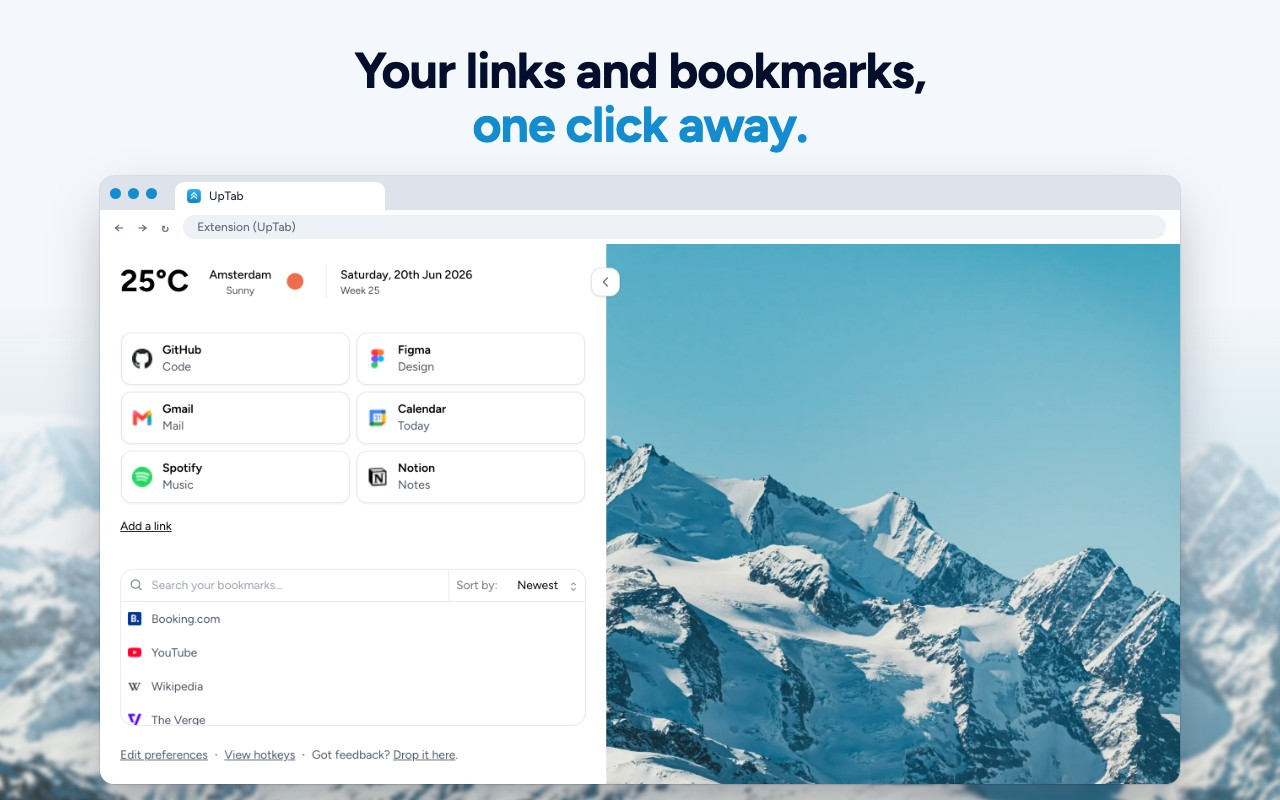
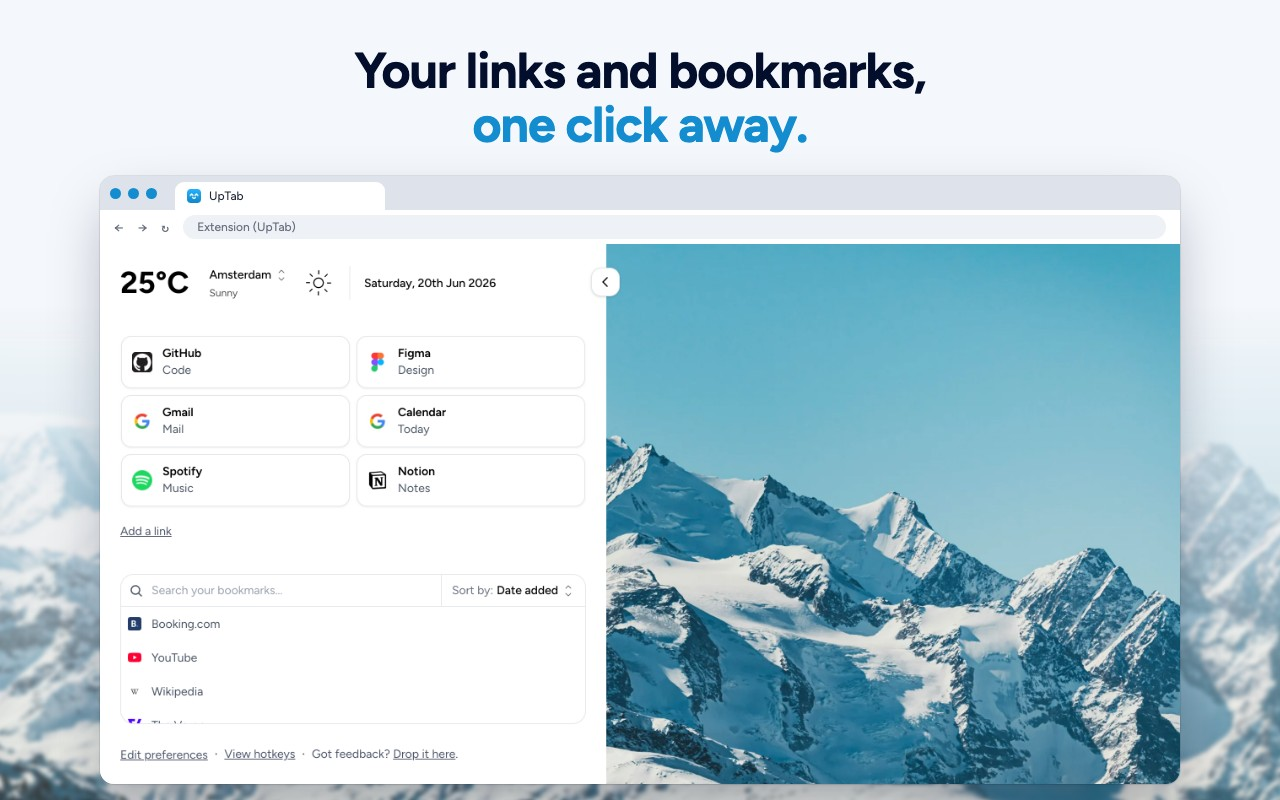
Update store screenshots

diff --git a/dev/screenshots/fixtures.ts b/dev/screenshots/fixtures.ts
@@ -13,6 +13,7 @@ export const NOW = new Date("2026-06-20T16:20:00+02:00");
 export const TODAY = "2026-06-20";
 
 const CURRENT_TEMPERATURE = 25;
+const CURRENT_WIND = 12;
 
 /** Per day: lowest and highest temperature, WMO weather code, rain at its peak. */
 const DAYS = [
@@ -62,6 +63,7 @@ const units = {
   snowfall: "cm",
   weather_code: "wmo code",
   is_day: "",
+  wind_speed_10m: "km/h",
 };
 
 /** An Open-Meteo forecast response (see src/services/weather/types.ts). */
@@ -92,6 +94,7 @@ export const weather = () => {
       snowfall: 0,
       weather_code: DAYS[0].code,
       is_day: 1,
+      wind_speed_10m: CURRENT_WIND,
     },
     hourly_units: units,
     hourly: {
@@ -111,6 +114,7 @@ export const weather = () => {
       is_day: hours.map(({ hour }) =>
         hour >= SUNRISE && hour < SUNSET ? 1 : 0,
       ),
+      wind_speed_10m: hours.map(() => CURRENT_WIND),
     },
   };
 };

diff --git a/dev/screenshots/seed.ts b/dev/screenshots/seed.ts
@@ -147,8 +147,17 @@ export const seedStorage = (
           id: crypto.randomUUID(),
         })),
       });
-      // No "What's new" notice in the sidebar.
+      /*
+       * No notice above the date: not "What's new", the error reports nudge or
+       * the feedback ask (the last two are due right away in a dev build). And
+       * no "Connect your calendar" under it.
+       */
       await chrome.storage.local.remove("newUpdate");
+      await chrome.storage.local.set({
+        errorReportsNudgedAt: Date.now(),
+        feedbackAskedAt: Date.now(),
+        settings: { calendar: { showConnectPrompt: false } },
+      });
 
       // A few milliseconds apart, so sorting by date gives the same order every run.
       for (const bookmark of bookmarks) {
